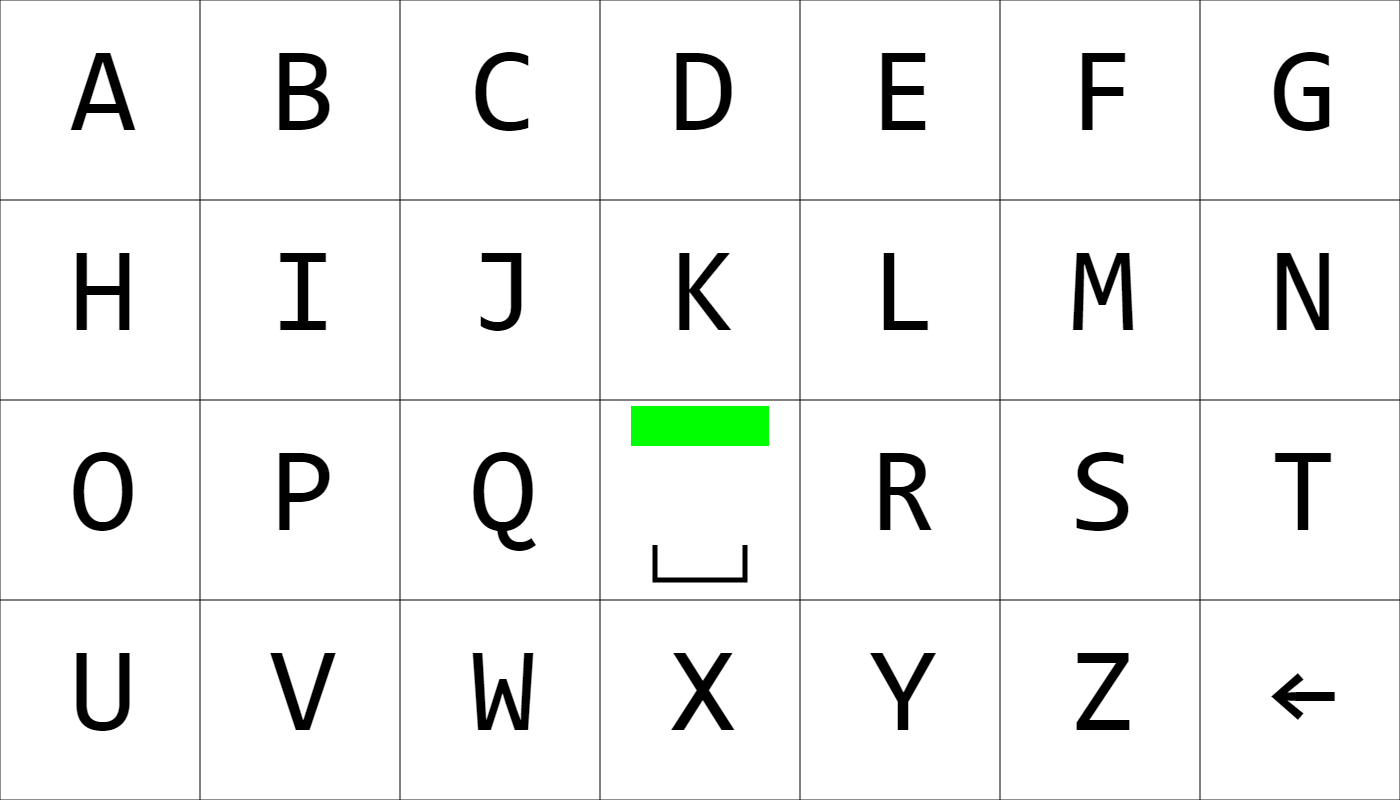
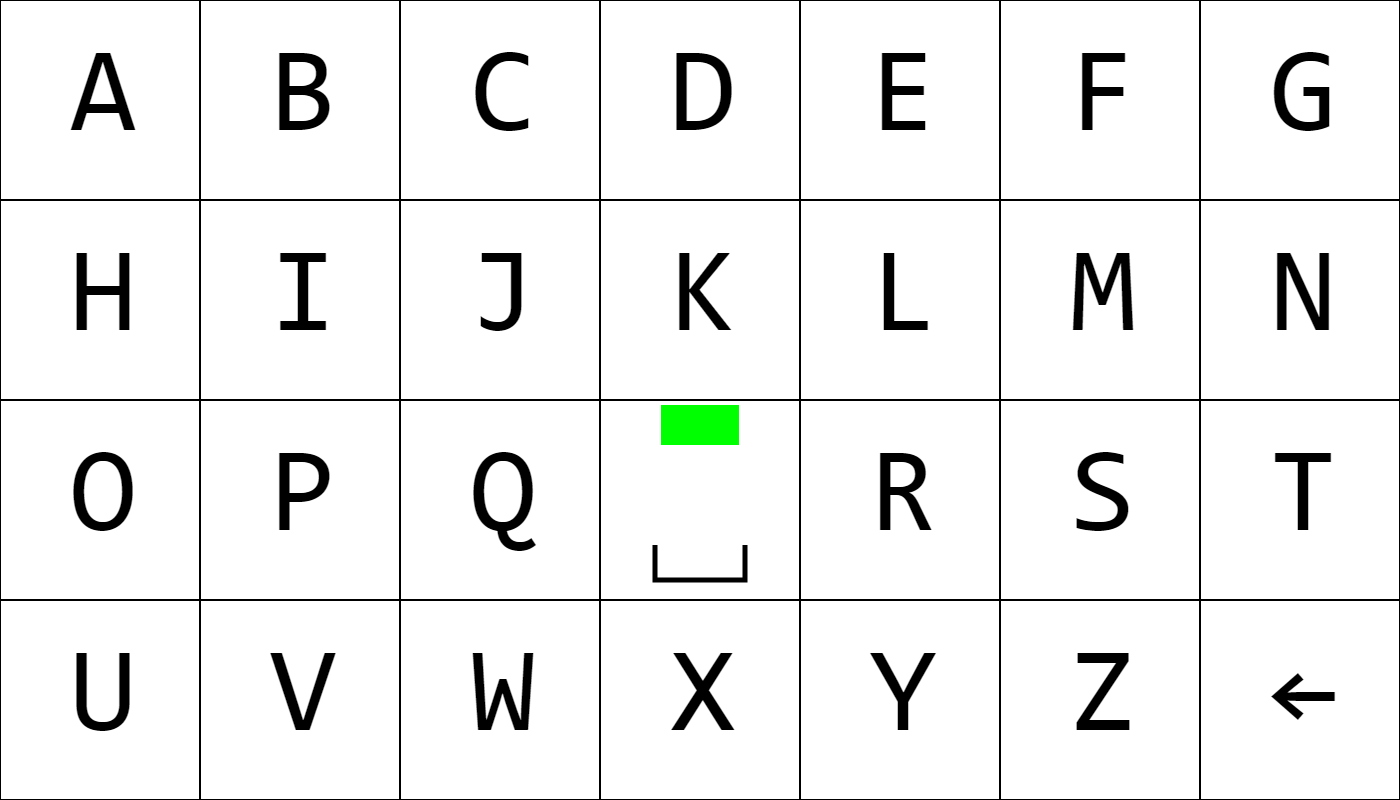
smaller marker in alphabet turned out to be better

Changed region(s): [[0.43, 0.5, 0.4914, 0.5625], [0.5221, 0.5, 0.5529, 0.5625]]

diff --git a/utils/alphabet_grid.html b/utils/alphabet_grid.html
@@ -12,7 +12,6 @@
 	var context = canvas.getContext('2d');
 /*
 	context.strokeStyle = "#0000FF";
-	context.lineWidth = 10;
 
 	context.beginPath();
 	context.moveTo(0, 0);
@@ -30,12 +29,14 @@
 	context.moveTo(190, 190);
 	context.lineTo(0, 190);
 	context.stroke();
-*/
 
+*/
 	// fill with white background
 	context.fillStyle = "#FFFFFF";
 	context.fillRect(0, 0, 1400, 800);
 	context.fillStyle = "#000000";
+
+	context.lineWidth = 2;
 
 	// vertical lines
 	for (var i = 0; i <= 7; i++) {
@@ -74,7 +75,7 @@
 
 		// space also contains green marker
 		context.fillStyle = "#00FF00";
-		context.fillRect(631, 406, 138, 40);
+		context.fillRect(661, 405, 78, 40);
 		context.fillStyle = "#000000";
 		// space chat
 		context.beginPath();
